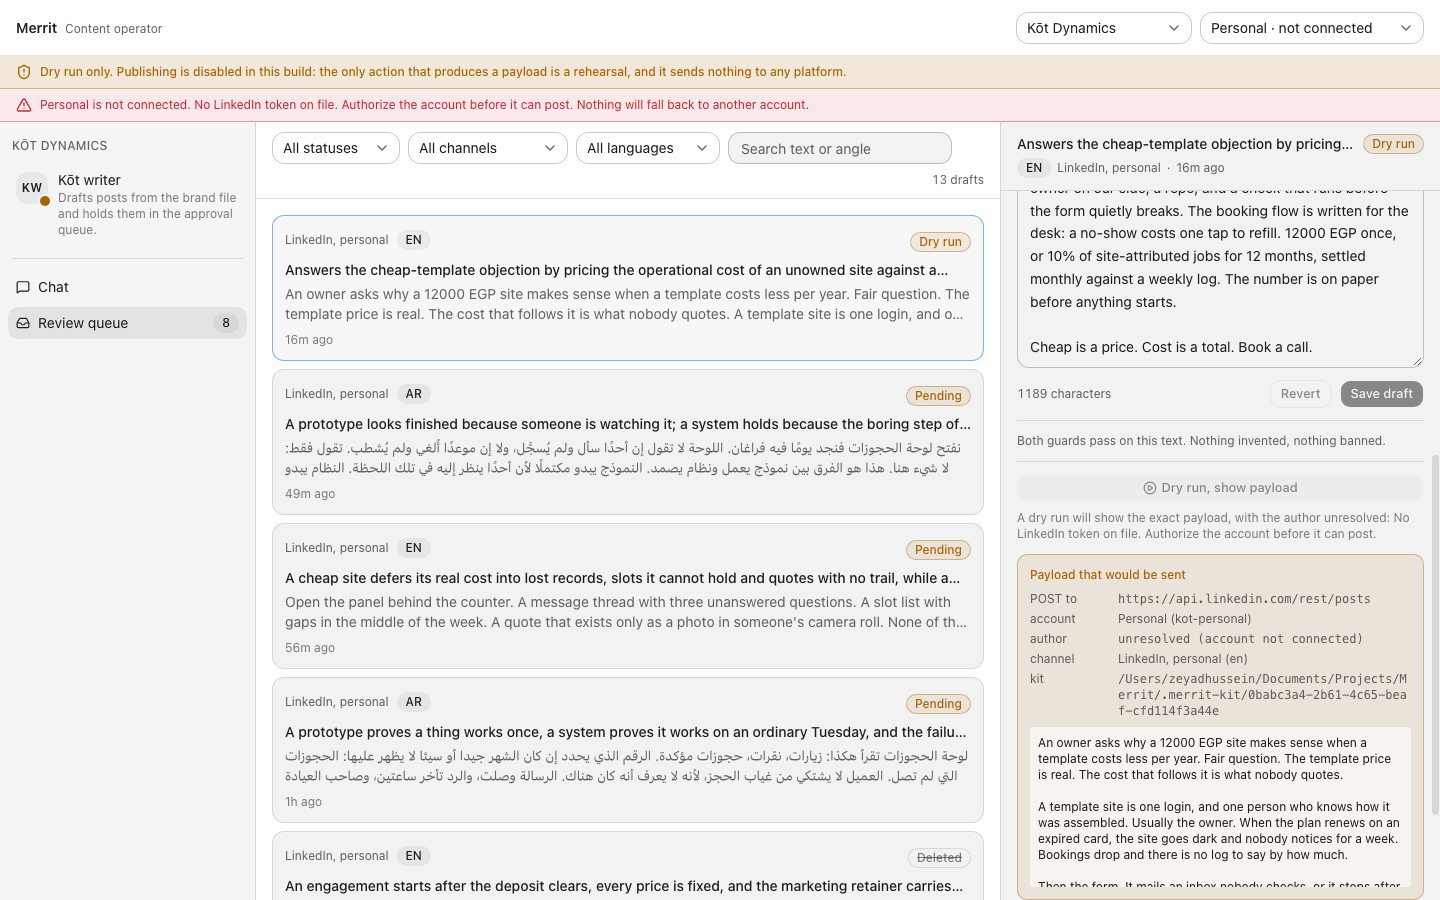
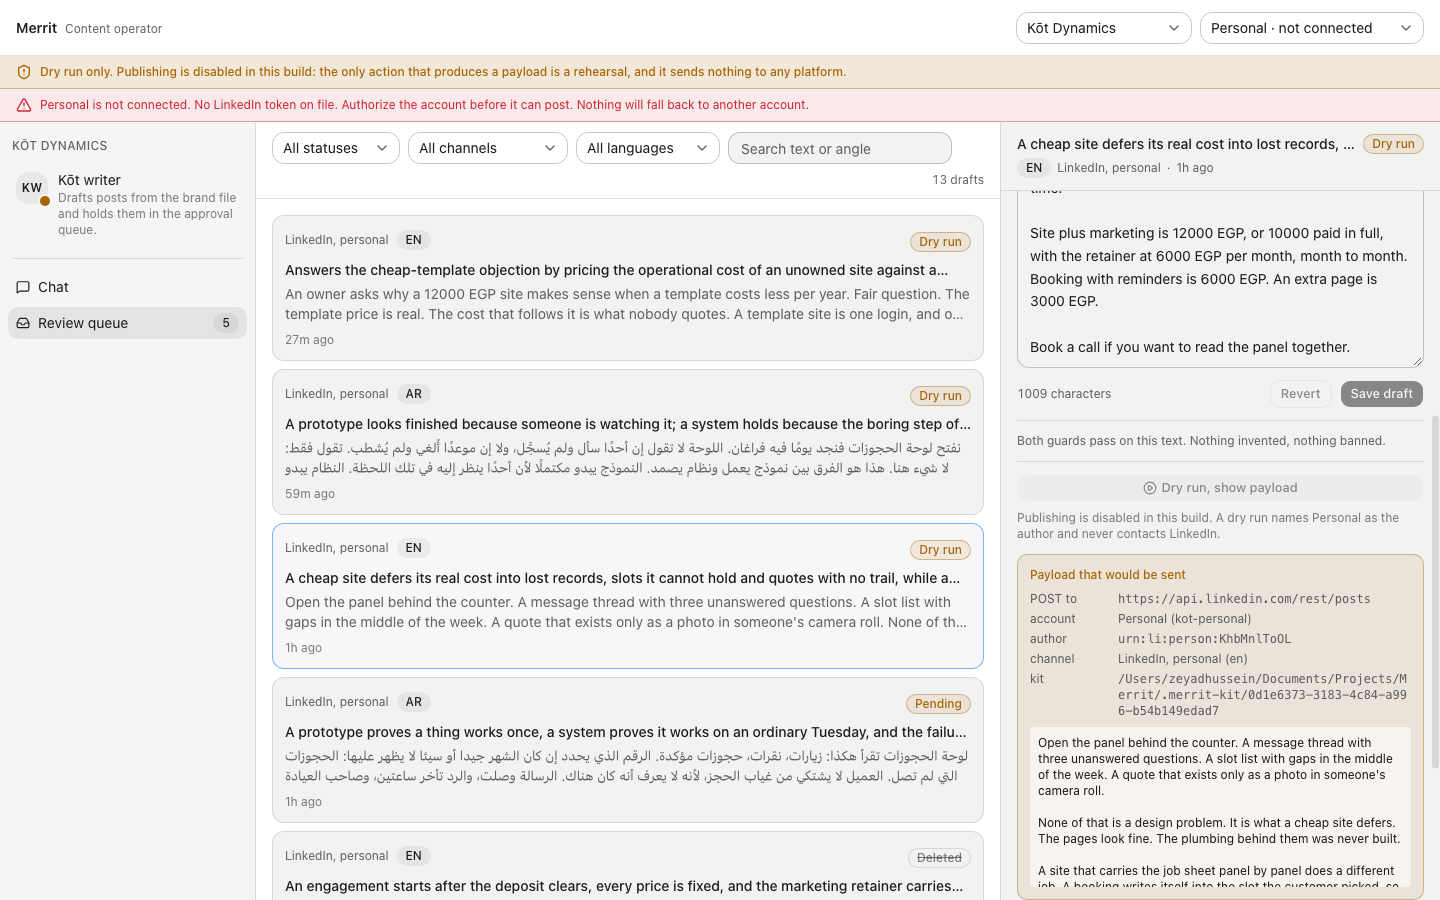
Rehearsals name their author from the registry, without a token
- clients.yaml: kot-personal carries member_urn, a public identifier rather than a credential.
  The registry still declares permission only; connectivity stays derived from token presence
- clients.ts: authorUrnFor resolves token urn first, then the registry member urn, then
  "unresolved". It never borrows another account identity
- dry run builds the full payload with the real author urn and no token at all; a real publish
  still fails closed on the missing token, and a blocked account is still refused
- detail panel caption now states what the payload will show instead of always saying unresolved
- tests: author resolution in all three cases, registry has no connected flag to go stale,
  dry run with no token names the registry urn, unresolved only without a member urn.
  Operator 58, web 1733 across 184 files, tsc and biome clean

- Hermes

diff --git a/apps/operator/src/clients.test.ts b/apps/operator/src/clients.test.ts
@@ -1,0 +1,80 @@
+import { mkdtempSync, writeFileSync } from "node:fs";
+import { tmpdir } from "node:os";
+import path from "node:path";
+import { describe, expect, it } from "vitest";
+import { authorUrnFor, findAccount, loadClients } from "./clients.ts";
+
+const REGISTRY = `
+clients:
+  - slug: kot
+    name: Kōt Dynamics
+    file: kot.yaml
+    accounts:
+      - id: kot-personal
+        label: Personal
+        kind: person
+        permission: granted
+        member_urn: urn:li:person:FROMREGISTRY
+      - id: kot-page
+        label: Kōt page
+        kind: organization
+        permission: blocked
+    bots:
+      - id: kot-writer
+        name: Kōt writer
+        description: drafts
+`;
+
+function registry() {
+  const dir = mkdtempSync(path.join(tmpdir(), "merrit-registry-"));
+  const file = path.join(dir, "clients.yaml");
+  writeFileSync(file, REGISTRY, "utf8");
+  return loadClients(file);
+}
+
+describe("the registry declares permission, never connectivity", () => {
+  it("has no connected flag to go stale", () => {
+    const [client] = registry();
+    expect(client).toBeDefined();
+    const personal = findAccount(client as NonNullable<typeof client>, "kot-personal");
+    expect(personal.permission).toBe("granted");
+    expect(personal).not.toHaveProperty("status");
+    expect(personal).not.toHaveProperty("connected");
+  });
+
+  it("keeps the member urn as a public identifier on the account", () => {
+    const [client] = registry();
+    const personal = findAccount(client as NonNullable<typeof client>, "kot-personal");
+    expect(personal.member_urn).toBe("urn:li:person:FROMREGISTRY");
+  });
+
+  it("marks a page account blocked, with no member urn", () => {
+    const [client] = registry();
+    const page = findAccount(client as NonNullable<typeof client>, "kot-page");
+    expect(page.permission).toBe("blocked");
+    expect(page.member_urn).toBe("");
+  });
+});
+
+describe("payload author resolution", () => {
+  it("prefers a live token, because it is authoritative", () => {
+    expect(authorUrnFor({ member_urn: "urn:li:person:FROMREGISTRY" }, "urn:li:person:LIVE")).toBe(
+      "urn:li:person:LIVE",
+    );
+  });
+
+  it("names the author from the registry when there is no token", () => {
+    expect(authorUrnFor({ member_urn: "urn:li:person:FROMREGISTRY" }, null)).toBe(
+      "urn:li:person:FROMREGISTRY",
+    );
+  });
+
+  it("says unresolved rather than guessing when neither exists", () => {
+    expect(authorUrnFor({ member_urn: "" }, null)).toBe("unresolved");
+  });
+
+  it("never borrows another account's identity", () => {
+    // A blocked page account has no member urn, so it can only resolve to unresolved.
+    expect(authorUrnFor({ member_urn: "" }, null)).not.toContain("KhbMnlToOL");
+  });
+});

diff --git a/apps/web/src/pages/merrit/merrit-page.test.tsx b/apps/web/src/pages/merrit/merrit-page.test.tsx
@@ -72,6 +72,7 @@ const PERSON = {
   label: "Personal",
   kind: "person" as const,
   permission: "granted" as const,
+  member_urn: "urn:li:person:TESTURN",
   note: "",
   connected: false,
   reason: "No LinkedIn token on file. Authorize the account before it can post.",
@@ -81,6 +82,7 @@ const PAGE = {
   label: "Kōt page",
   kind: "organization" as const,
   permission: "blocked" as const,
+  member_urn: "",
   note: "",
   connected: false,
   reason:
@@ -388,7 +390,7 @@ describe("rehearsal without a credential", () => {
         body: "body",
         accountId: "kot-personal",
         accountLabel: "Personal",
-        authorUrn: "unresolved (account not connected)",
+        authorUrn: "urn:li:person:TESTURN",
         kitPath: "/tmp/kit",
         wouldPostTo: "https://api.linkedin.com/rest/posts",
       },
@@ -410,7 +412,8 @@ describe("rehearsal without a credential", () => {
 
     const dryRun = buttonByText(container, "Dry run, show payload");
     expect(dryRun.disabled).toBe(false);
-    expect(container.textContent).toContain("with the author unresolved");
+    // No token, but the registry carries a member urn, so the payload can name the author.
+    expect(container.textContent).toContain("A dry run names Personal as the author");
 
     await act(async () => {
       dryRun.dispatchEvent(new MouseEvent("click", { bubbles: true }));
@@ -418,6 +421,25 @@ describe("rehearsal without a credential", () => {
     await flush();
 
     expect(api.dryRun).toHaveBeenCalledWith(ITEM_ID, "kot-personal");
-    expect(container.textContent).toContain("unresolved (account not connected)");
+    expect(container.textContent).toContain("urn:li:person:TESTURN");
+  });
+
+  it("says unresolved only when there is no member urn either", async () => {
+    api.clients.mockResolvedValue([{ ...client, accounts: [{ ...PERSON, member_urn: "" }, PAGE] }]);
+    const container = await renderPage();
+    await act(async () => {
+      buttonByText(container, "Review queue").dispatchEvent(
+        new MouseEvent("click", { bubbles: true }),
+      );
+    });
+    await flush();
+    await act(async () => {
+      buttonByText(container, "A cheap site is a deferred bill").dispatchEvent(
+        new MouseEvent("click", { bubbles: true }),
+      );
+    });
+    await flush();
+
+    expect(container.textContent).toContain("with the author unresolved");
   });
 });

diff --git a/apps/operator/src/publish.test.ts b/apps/operator/src/publish.test.ts
@@ -202,20 +202,22 @@ describe("with no token in the store", () => {
     state.token = null;
   });
 
-  it("still produces a dry-run payload, with the author explicitly unresolved", async () => {
+  it("still produces a dry-run payload, with the author named from the registry", async () => {
     const result = await actions.publishApproved(ID, { dryRun: true });
 
     expect(result.mode).toBe("dry-run");
-    expect(result.payload?.authorUrn).toBe("unresolved (account not connected)");
+    // kot-personal carries member_urn in the registry, so the payload names the real author even
+    // with no token. The urn is a public identifier, not a credential.
+    expect(result.payload?.authorUrn).toBe("urn:li:person:KhbMnlToOL");
     expect(result.payload?.accountId).toBe("kot-personal");
     expect(result.payload?.wouldPostTo).toBe("https://api.linkedin.com/rest/posts");
     expect(fetchSpy).not.toHaveBeenCalled();
     expect(setStatus).toHaveBeenCalledWith(ID, "dry_run", expect.anything());
   });
 
-  it("names the unresolved author for a named account too", async () => {
+  it("resolves the named account's author too", async () => {
     const result = await actions.publishApproved(ID, { dryRun: true, accountId: "kot-personal" });
-    expect(result.payload?.authorUrn).toBe("unresolved (account not connected)");
+    expect(result.payload?.authorUrn).toBe("urn:li:person:KhbMnlToOL");
     expect(fetchSpy).not.toHaveBeenCalled();
   });
 

diff --git a/apps/operator/src/clients.ts b/apps/operator/src/clients.ts
@@ -13,6 +13,8 @@ export interface Account {
   label: string;
   kind: AccountKind;
   permission: AccountPermission;
+  /** Public member identifier, for naming the author in a payload. Never a credential. */
+  member_urn: string;
   note: string;
 }
 
@@ -49,6 +51,7 @@ function accountsOf(entry: Record<string, unknown>): Account[] {
       label: String(record.label ?? record.id ?? ""),
       kind: record.kind === "organization" ? "organization" : "person",
       permission: record.permission === "granted" ? "granted" : "blocked",
+      member_urn: String(record.member_urn ?? ""),
       note: String(record.note ?? ""),
     };
   });
@@ -112,6 +115,19 @@ export function findAccount(client: ClientEntry, accountId: string): Account {
     );
   }
   return account;
+}
+
+/**
+ * The author a payload would carry. A live token wins, because it is authoritative. Without one,
+ * the registry's public member urn still names the account exactly. With neither, the payload says
+ * "unresolved" rather than guessing or borrowing another account's identity.
+ */
+export function authorUrnFor(
+  account: Pick<Account, "member_urn">,
+  tokenUrn: string | null,
+): string {
+  if (tokenUrn) return tokenUrn;
+  return account.member_urn || "unresolved";
 }
 
 export function clientBrand(client: ClientEntry): Brand {

diff --git a/apps/operator/src/actions.ts b/apps/operator/src/actions.ts
@@ -1,6 +1,6 @@
 import type { Language } from "./brand.ts";
 import type { ClientEntry, ResolvedAccount } from "./clients.ts";
-import { clientBrand, findClient, loadClients } from "./clients.ts";
+import { authorUrnFor, clientBrand, findClient, loadClients } from "./clients.ts";
 import { checkCommercialTerms, extractCommercialFacts } from "./commercial.ts";
 import { config } from "./config.ts";
 import type { ApprovalItem, ItemStatus } from "./db.ts";
@@ -315,11 +315,9 @@ export async function publishApproved(
       body: item.body,
       accountId: chosen.id,
       accountLabel: chosen.label,
-      // Never invent an author. If the account has no token, the payload says so in the field
-      // that will be sent, so a rehearsal cannot be mistaken for a ready-to-publish request.
-      authorUrn: chosen.connected
-        ? (token?.person_urn ?? "unresolved (account not connected)")
-        : "unresolved (account not connected)",
+      // The payload names its author from the token, else the registry's public member urn, else
+      // says "unresolved". It never borrows another account's identity.
+      authorUrn: authorUrnFor(chosen, token?.person_urn ?? null),
       kitPath: kit.dir,
       wouldPostTo: "https://api.linkedin.com/rest/posts",
     };

diff --git a/apps/web/src/pages/merrit/detail.tsx b/apps/web/src/pages/merrit/detail.tsx
@@ -18,6 +18,7 @@ interface DetailProps {
     label: string;
     permission: "granted" | "blocked";
     connected: boolean;
+    memberUrn: string;
     reason: string;
   } | null;
 }
@@ -304,9 +305,9 @@ export function ItemDetail({ item, events, loading, onChanged, account }: Detail
             <p className="text-xs text-faint-foreground">
               {account?.permission !== "granted"
                 ? (account?.reason ?? "No account in this brand may post.")
-                : account.connected
-                  ? `Publishing is disabled in this build. A dry run would post as ${account.label} and it never contacts LinkedIn.`
-                  : `A dry run will show the exact payload, with the author unresolved: ${account.reason}`}
+                : account.connected || account.memberUrn
+                  ? `Publishing is disabled in this build. A dry run names ${account.label} as the author and never contacts LinkedIn.`
+                  : `A dry run will show the exact payload with the author unresolved: ${account.reason}`}
             </p>
           </div>
 

diff --git a/apps/web/src/pages/merrit/api.ts b/apps/web/src/pages/merrit/api.ts
@@ -44,6 +44,8 @@ export interface Account {
   kind: "person" | "organization";
   /** May it post at all, if authorized. Declared in the registry, never a connectivity claim. */
   permission: "granted" | "blocked";
+  /** Public member identifier. Lets a rehearsal name the author without a token. */
+  member_urn: string;
   note: string;
   /** Derived by the server from token presence. */
   connected: boolean;

diff --git a/apps/web/src/pages/merrit/merrit-page.tsx b/apps/web/src/pages/merrit/merrit-page.tsx
@@ -185,6 +185,7 @@ export function MerritPage() {
                       label: account.label,
                       permission: account.permission,
                       connected: account.connected,
+                      memberUrn: account.member_urn,
                       reason: account.reason,
                     }
                   : null
